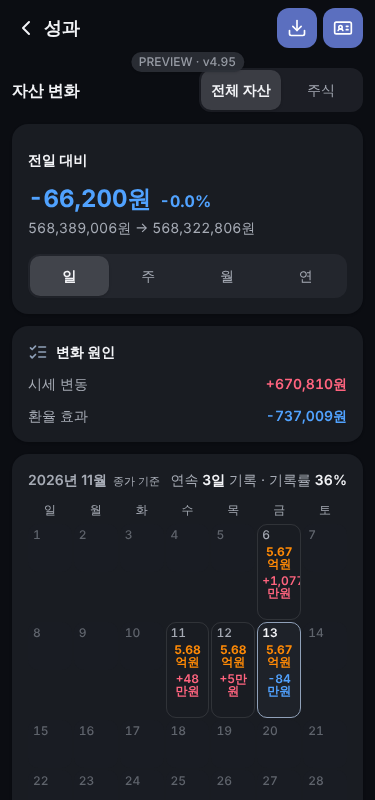
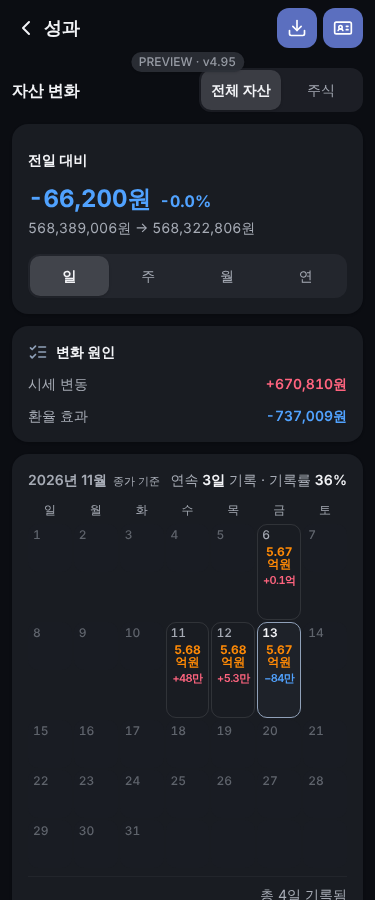
memory: 4.95 달력 칸 재검수(320 px-0 수정 요청)

diff --git a/issues/4.95-184-quality-batch/4.95-ui-review.md b/issues/4.95-184-quality-batch/4.95-ui-review.md
@@ -26,3 +26,23 @@
 ui-day-{320,360,375}-dark.png, ui-day-320-light.png, ui-home-week-{320,360,375}-dark.png, ui-dividend-{320,375}-dark.png, ui-dividend-chip-{320,360,375}-dark.png
 
 F5 재승인(2026-11-13): 달력 증감 줄 최종 클래스 `px-[3px] text-[11px] tracking-tighter`를 승인(11px 하한 유지, 증감 줄 한정·tabular-nums 필수) — 단 ui.md 'COO 수정 대응' 축약 규칙(`+0.1억`·`+6.6만` 등, 단위 `원` 생략) 적용 후 320·360·375 `scrollWidth ≤ clientWidth` 실측이 조건.
+
+## 달력 칸 재검수 (head b452b6e, 2026-11-13)
+
+**판정: UI 수정 요청 (320만). 360·375는 승인.**
+
+측정(미리보기 `?demo=1` 성과>최근 7일>일, 다크, `day-cell-diff` 요소; 값은 DOM 주입):
+
+| 폭 | 증감 줄 가용폭 | +0.1억 / −0.9억 / +1.2억 / +6.6만 / +999 | 실제 값(+0.1억, +48만, +5.3만, −84만) |
+|---|---|---|---|
+| 320 | 28px | 위 4개 2줄(높이 22), +999만 1줄(11) | 4개 모두 2줄 |
+| 360 | 34px | 5개 모두 1줄(11), scrollWidth=clientWidth | 1줄 |
+| 375 | 36px | 5개 모두 1줄(11), scrollWidth=clientWidth | 1줄 |
+
+- 320 문제: `+48`/`만`처럼 숫자와 단위가 분리됨(실제 값 `+48만`, `−84만`도 해당). 순자산 줄 `5.67/억원`은 단위 줄이 원래 분리되는 구조라 수용되지만, 증감 줄은 부호 숫자가 단위와 떨어져 `+0.1`/`억`이 읽혀 부호·단위 결합(C25 어절 끊김) 기준에 어긋난다. 칸 높이는 증감 있는 칸끼리 22px로 균일하나, 증감 없는 칸(+999류 1줄)과 섞이면 불균일해진다. 잘림은 없음(scrollWidth=clientWidth).
+- 360·375는 한 줄, 겹침·잘림 0. 승인.
+- 수정안(실측 검증): 320에서만 칸 가로 패딩 제거. 칸 `p-1 max-sm:px-[3px]` → `max-sm:px-0`(테두리 1px만 남음, 내용폭 28→34px). DOM 주입으로 320에서 +0.1억·−0.9억·+1.2억·+6.6만·−99만·+999 전부 1줄(높이 11), 실제 4칸 모두 1줄 확인(`ui-cal-320-px0-dark.png`). 텍스트가 칸 테두리에 거의 닿으나(여백 ≈0) 잘림·겹침 없음, 11px 하한 유지. 대안 규칙(`억` 생략 등)은 단위 의미를 잃어 불채택. 순자산 줄 `5.67/억원` 2줄은 기존 패턴으로 유지.
+- 수정 후 재확인 조건: 320에서 `day-cell-diff` 높이 11(1줄), scrollWidth ≤ clientWidth, 360·375 변화 없음.
+- 모델 가정 정정: ui.md 가용폭 34.6px는 360 기준이며 320은 28px.
+
+스크린샷: screenshots/ui-cal-{320,360,375}-dark.png, ui-cal-{320,360,375}-inject-dark.png(+0.1억 주입), ui-cal-320-px0-dark.png(수정안 시뮬레이션)
